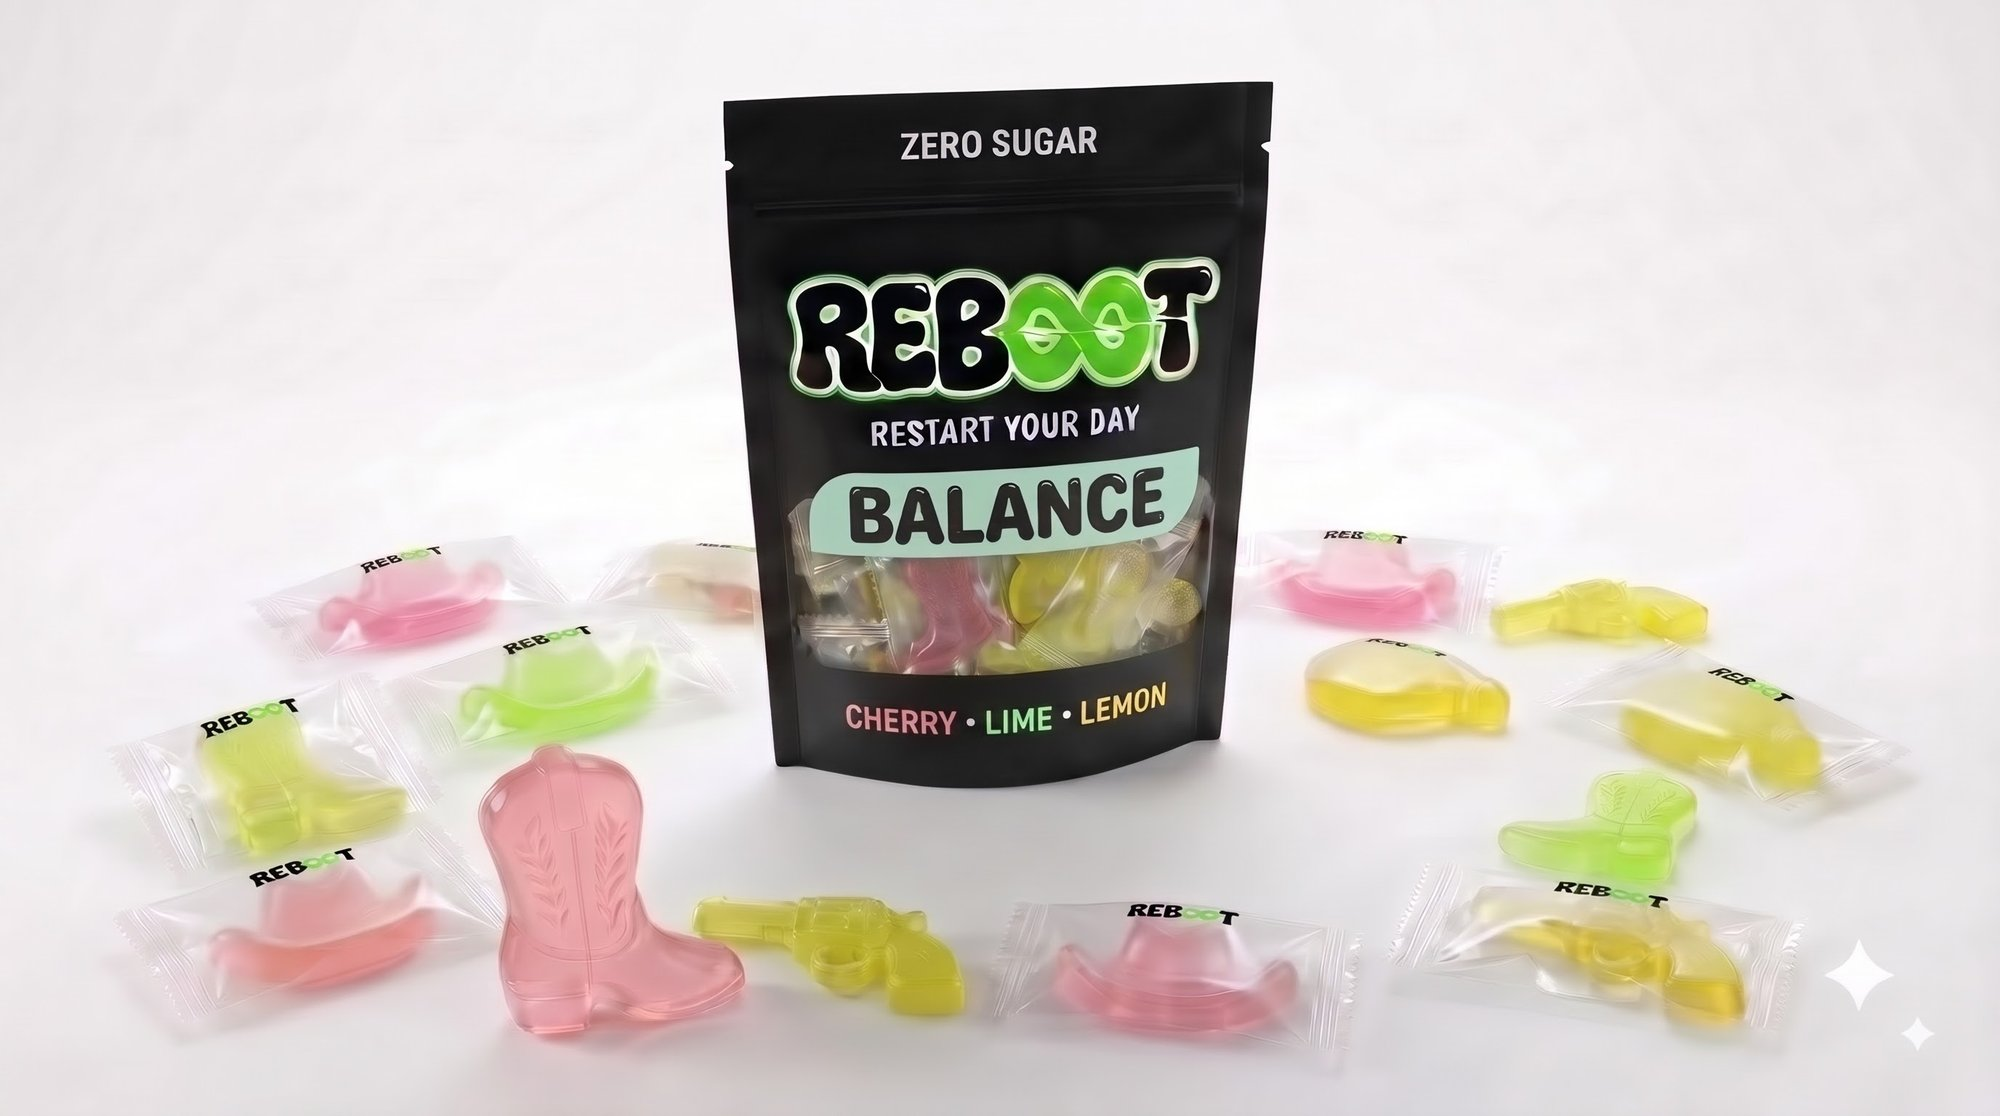
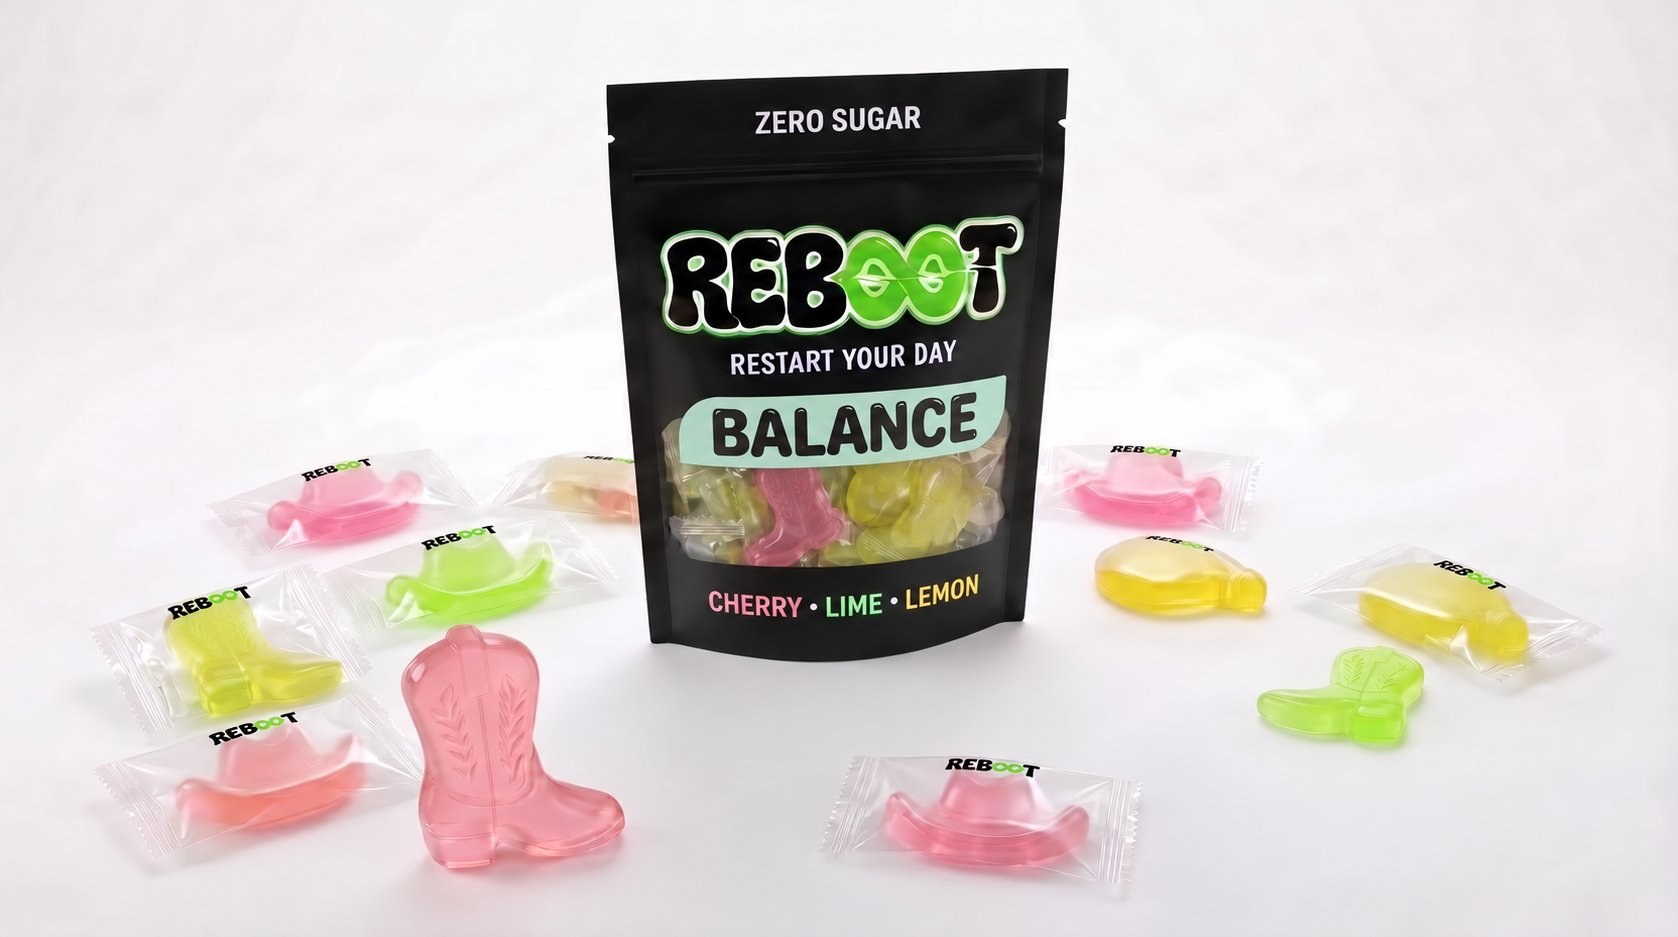
5차 수정
feat: 맛별 젤리 사진 추가 및 참고 이미지·검토 로직 개선

diff --git a/tabs/content/prompts.py b/tabs/content/prompts.py
@@ -68,6 +68,7 @@ CONVERSATION_CORE_V3 = """너는 Reboot 마케팅 담당자의 콘텐츠 제작 
 - 숙취(hangover) 해소·예방, 건강 효능을 만들지 않는다. 성분(A-HAT 등)은 product_facts 문구대로 소개만 하고 효과를 주장하지 않는다.
 - 가격·용량은 product_facts에 있는 값만 쓴다. 젤리 봉지 안 개수·성분 함량·인증은 미제공이라 만들지 않는다.
 - 젤리 모양은 카우보이 부츠 · 카우보이 모자 · 올가미 세 가지뿐이다. 다른 모양(총·리볼버 등)을 쓰지 않는다.
+  모양과 맛은 관계없다 (어느 맛이든 세 모양으로 나온다). "체리는 모자" 같은 모양-맛 짝을 만들지 않는다.
 - 캐릭터 이름은 Rebu로 쓴다. 외형은 brand_facts.character 기준이고 나이·생일·가족·취미 같은 프로필은 지어내지 않는다.
   character_use가 '사용 안 함'이면 Rebu를 넣지 않고, '사용'이면 시각 콘텐츠에 넣고, 'AI 판단'이면 어울릴 때만 넣는다.
 - CM송은 제작 중이다. 가사·멜로디·음원을 안다고 말하지 않는다.
@@ -229,7 +230,7 @@ CONTENT_DRAFT_V2 = """너는 Reboot 마케팅 콘텐츠 작성자다. 현재 요
 - 초안 수는 지정된 개수를 따르고, 안마다 접근을 다르게 한다. approach에 한국어 한 줄로 접근을 쓴다.
 - 사실 주장에는 claims로 entity_id(brand 또는 제품 ID)와 fact_id를 연결한다. 근거가 없는 사실 주장은 쓰지 않는다.
   fact_id 허용 — brand: name, slogan, colors, character, cm_song, category, company, key_ingredient
-  / 제품: internal_name, consumer_name, form, flavors, flavor_shapes, pack, price, volume, bottle, ingredients, zero_sugar,
+  / 제품: internal_name, consumer_name, form, flavors, shapes, pack, price, volume, bottle, ingredients, zero_sugar,
   development_direction
 - 근거가 필요한 칸이 비면 [확인 필요: 무엇] 으로 남기고 needs_check에 한국어로 모은다.
 - 슬로건은 공식 두 개(Restart Your Day · Buy Your Tomorrow) 중에서 철자 그대로 쓴다. decisions.slogan_choice가 있으면 그것을,

diff --git a/tabs/content/tests/test_content.py b/tabs/content/tests/test_content.py
@@ -598,7 +598,8 @@ def test_image_generate_then_edit_with_base_file(auth_client, ai, sync_jobs, mon
     assert base_sent[0].endswith(img["imageUrl"].rsplit("/", 1)[1])  # 1번 = 편집할 기준 이미지
     # 고른 맛(라임) 사진 전부 + 맛 구분 없는 봉지 사진
     assert [Path(x).name for x in base_sent[1:]] == ["jelly-original-lime-boot-wrapped.jpg", "jelly-original-lime-boot-spec.jpg",
-                                                     "jelly-original-pouch-front.jpg", "jelly-original-pouch-scene-2.jpg"]
+                                                     "jelly-original-pouch-front.jpg", "jelly-original-pouch-scene-2.jpg",
+                                                     "jelly-original-pouch-scene.jpg", "jelly-original-pieces.jpg"]
     assert "Image 1 is the base image to edit" in calls["edit"][1][1]
     assert auth_client.get(img["imageUrl"]).status_code == 200  # 원본 파일 유지
     # 수정할 때 프롬프트 작성 AI에게 기준 이미지에 들어간 문구를 넘김 (문구 수정 · 유지 판단용)
@@ -971,8 +972,9 @@ def test_manifest_files_exist_and_ids_are_valid():
         assert assets.path_of(a).is_file() and assets.path_of(a).suffix == ".jpg", a["file"]
         if a["type"] == "product":
             assert a["product_id"] in kit["products"] and a.get("flavor") in (None, *assets.FLAVORS)
-    # 리볼버가 보이는 사진 · 글자 많은 캐릭터 시트는 참고 사진으로 고르지 않음
-    assert not assets.get("jelly-original-pouch-scene")["ref"] and not assets.get("rebu-profile-sheet")["ref"]
+    # 글자 많은 캐릭터 시트는 참고 사진으로 고르지 않음
+    assert not assets.get("rebu-profile-sheet")["ref"]
+    assert assets.get("jelly-original-pouch-scene")["ref"] and assets.get("jelly-balance-pouch-scene")["ref"]  # 리볼버 뺀 사진으로 교체 (2026-10-25)
 
 
 def test_pick_refs_by_flavor_and_character():

diff --git a/tabs/content/media.py b/tabs/content/media.py
@@ -44,7 +44,8 @@ TEXT_MODES = ("bake", "none")
 IMAGE_SCOPE = "이미지에 그리라고 넘긴 문구만 검사 · 실제 그려진 글자(철자)는 검사하지 않음"
 NO_TEXT_RE = re.compile(r"(글자|문구|텍스트|카피)\s*(없이|빼고|빼줘|없는|넣지\s*마)|no\s+text|without\s+text", re.I)
 VIEW_EN = {"trio": "three bottles, front", "front": "front view", "angle": "lying at an angle", "spec": "product views",
-           "pouch": "pouch, front", "scene": "pouch with wrapped jellies", "wrapped": "individually wrapped jelly"}
+           "pouch": "pouch, front", "scene": "pouch with wrapped jellies", "wrapped": "individually wrapped jelly",
+           "pieces": "unwrapped jelly pieces (boot, hat, lasso)"}
 VIDEO_REF_TEXT = ("Keep the products and the mascot exactly as they appear in the reference images: same shape, colors, "
                   "proportions and printed labels/logo. Ignore measurement lines and captions in the reference images. "
                   "No on-screen text, subtitles, captions, logos or watermarks. No dialogue or voice-over.")

diff --git a/tabs/content/review.py b/tabs/content/review.py
@@ -26,7 +26,7 @@ BALANCE_RE = re.compile(r"\bbalance\b", re.I)
 
 BRAND_FACTS = {"name", "slogan", "slogans", "colors", "character", "cm_song", "category", "intro", "market", "company", "key_ingredient"}
 PRODUCT_FACTS = {"internal_name": "internal_name", "name": "internal_name", "consumer_name": "consumer_name", "form": "form",
-                 "flavors": "flavors", "flavor_shapes": "flavor_shapes", "pack": "pack", "price": "price", "volume": "volume",
+                 "flavors": "flavors", "shapes": "shapes", "pack": "pack", "price": "price", "volume": "volume",
                  "bottle": "bottle", "ingredients": "ingredients", "zero_sugar": "zero_sugar",
                  "development_direction": "development_direction", "direction": "development_direction"}
 CONSUMER_KINDS = ("copy", "cardnews", "script", "desc", "crm")

diff --git a/tabs/content/docs/README.md b/tabs/content/docs/README.md
@@ -94,7 +94,7 @@
 | 판매가 · SKU | $16 `jelly-original-pouch` | $18 `jelly-balance-pouch` | $7 `drink-original-single` · $19 `drink-original-box3` | $8 `drink-balance-single` · $22 `drink-balance-box3` |
 | ZERO SUGAR | 아니요 | **예** (표기 조건 충족 가정) | 아니요 | **예** (표기 조건 충족 가정) |
 
-젤리 맛과 모양: 체리 = 모자(분홍), 레몬 = 올가미(노랑), 라임 = 부츠(연두). Balance는 연한 색, Original은 진한 색이다. 봉지 안 젤리 개수와 성분 함량은 미제공이다. 뒷면 영양 정보는 이미지 참고용이며 카피에 쓰지 않는다. 일부 사진에 보이는 리볼버 모양은 확정 모양이 아니라서 생성 참고 사진에서 뺀다.
+젤리 모양과 맛은 관계없다. 어느 맛이든 부츠·모자·올가미 세 모양으로 나온다 (2026-10-25 확인). Balance는 연한 색, Original은 진한 색이다. 봉지 안 젤리 개수와 성분 함량은 미제공이다. 뒷면 영양 정보는 이미지 참고용이며 카피에 쓰지 않는다. 리볼버 모양이 보이던 봉지 장면 사진 2장은 리볼버를 뺀 사진으로 교체했다 (2026-10-25). 봉지 장면 사진의 노란 물방울 모양 2개는 실수로 들어간 모양이지만 그대로 둔다.
 
 **적용 방식** — 공용 팩트시트(`data/products.json` · 설정 › 제품 정보)는 다른 탭도 쓰므로 콘텐츠 탭에서 고치지 않는다. 콘텐츠 제작 때만 `tabs/content/data/brand_kit.json`의 값을 제품별로 덮어쓴다(`brandkit.py`, `facts_version` 끝에 `+kit-2026-10-24`). 다른 탭과 맞추려면 설정 › 제품 정보에서 같은 값을 입력한다.
 
